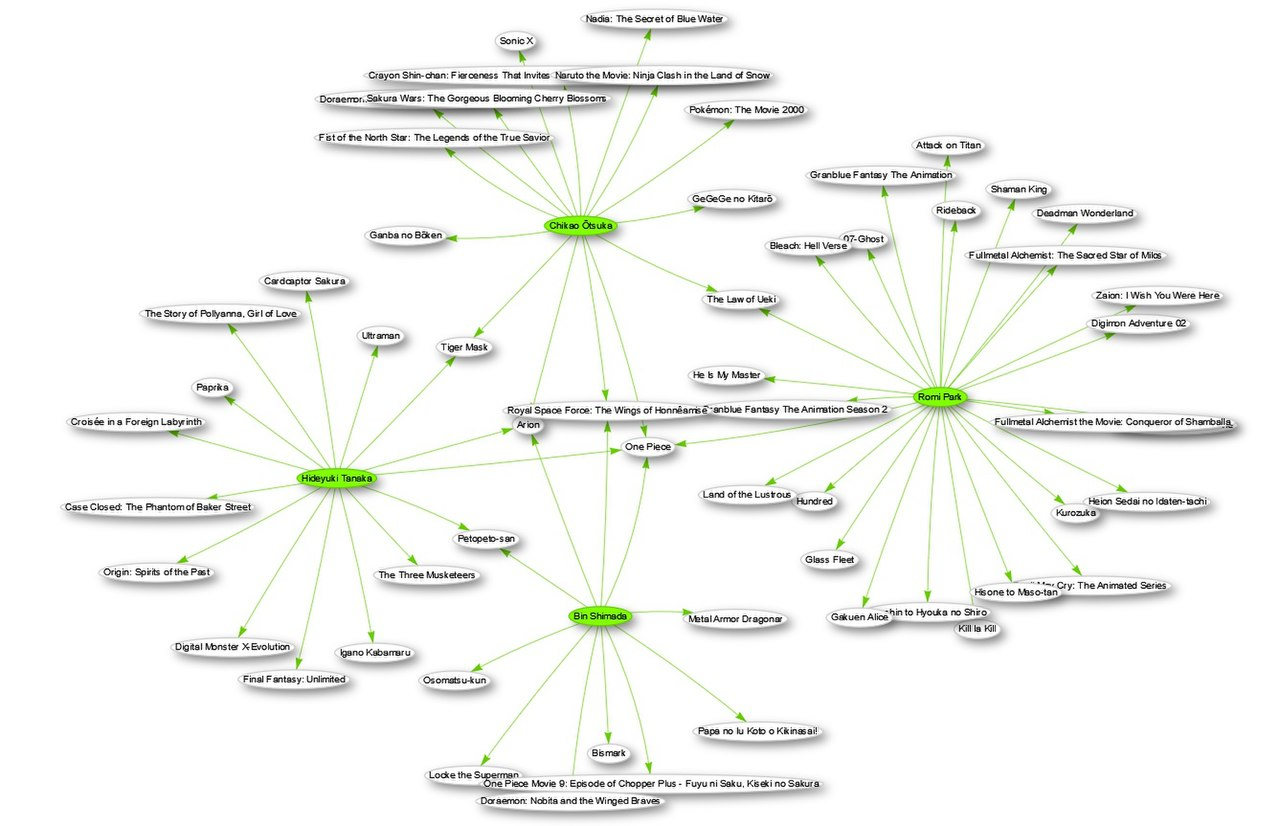
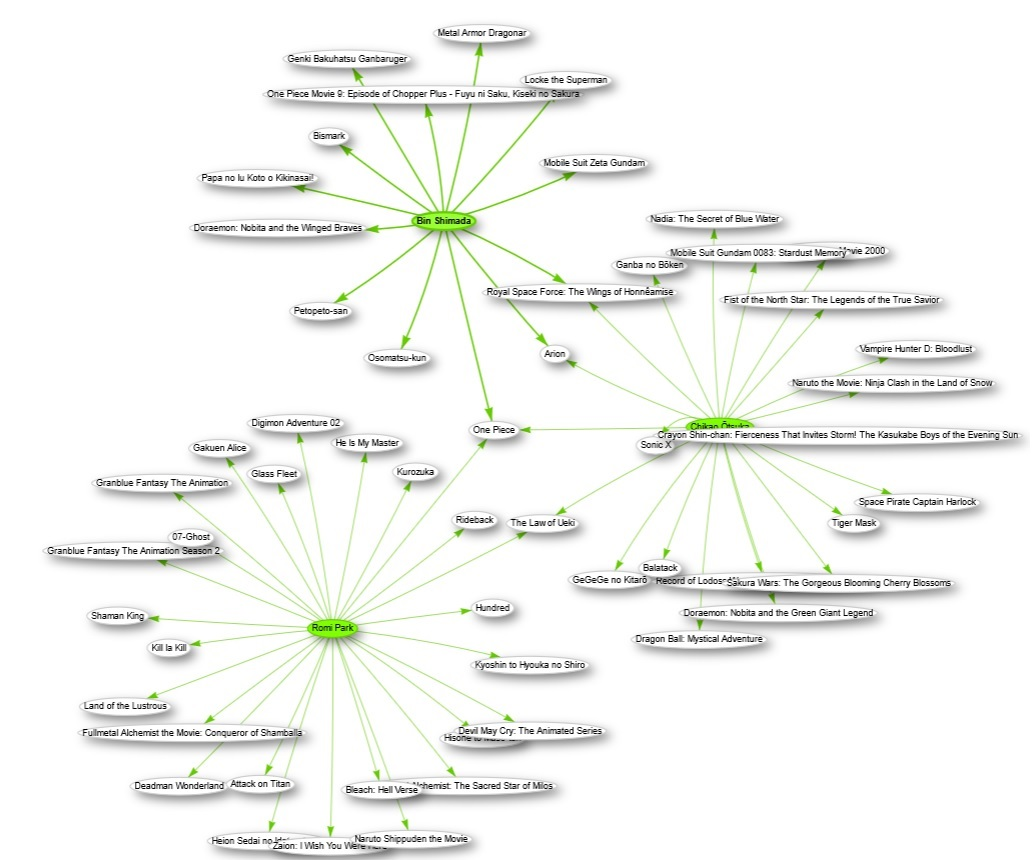
Remove SAMPLE commands that gave wrong language labels, reduce graph size in EN, fix sunburst actors diagram in RU

Changed region(s): [[0.0309, 0.0, 0.9903, 1.0]]

diff --git a/ru/chapter/anime.tex b/ru/chapter/anime.tex
@@ -116,25 +116,23 @@ WHERE
 
 Построим упорядоченный список сэйю по числу озвученных ими аниме (листинг~\protect\ref{lst:seiyu_titles_sorted}).
 
-\footnotetext{Получено \num{148} результатов в 2017 году и \num{2684} результата в 2021 году. Ссылка на SPARQL-запрос: \href{https://w.wiki/49zz}{https://w.wiki/49zz}}
+\footnotetext{Получено \num{148} результатов в 2017 году и \num{2910} результатов в 2021 году. Ссылка на SPARQL-запрос: \href{https://w.wiki/4Xph}{https://w.wiki/4Xph}}
 \begin{lstlisting}[ language=SPARQL, 
-                    caption={\href{https://w.wiki/49zz}{Упорядоченный список сэйю по числу озвученных ими аниме}\protect\footnotemark},
+                    caption={\href{https://w.wiki/4Xph}{Упорядоченный список сэйю по числу озвученных ими аниме}\protect\footnotemark},
                     label=lst:seiyu_titles_sorted,
                     texcl 
                     ]
-# Ordered list of seiyu according to the number of anime
+# Ordered list of actors (seiyu) according to the number of anime
 # where they took part in
-SELECT ?seiyu (SAMPLE(?label) AS ?seiyuLabel) (COUNT(?anime) AS ?count)
+SELECT ?seiyu ?seiyuLabel (COUNT(?anime) AS ?count)
 WHERE
 {
-  ?anime wdt:P31/wdt:P279* wd:Q1107;	 # instance of anime/subclass
-         wdt:P725 ?seiyu. 	             # instance of seiyu
-  ?seiyu rdfs:label ?label	             # subclass of label
-    SERVICE wikibase:label{bd:serviceParam
-					     wikibase:language "ru,en,ja"}
+  ?anime wdt:P31/wdt:P279* wd:Q1107;  # instance of anime/subclass
+         wdt:P725 ?seiyu.  # instance of seiyu (voice actor)
+  SERVICE wikibase:label { bd:serviceParam wikibase:language "ru,en,ja" }
 }
-GROUP BY ?seiyu		    # group by seiyu 
-ORDER BY DESC(?count)	# order by count of voiced anime
+GROUP BY ?seiyu ?seiyuLabel  # group by seiyu 
+ORDER BY DESC(?count)  # order by count of voiced anime
 \end{lstlisting}%
 
 \subsection{График по числу сэйю, озвучивших одно и более аниме}
@@ -250,24 +248,22 @@ WHERE
 
 Вспомним запрос~\protect\ref{lst:seiyu_titles_sorted}, в котором говорилось о \num{2684} сэйю на Викиданных. Дело в том, что поиск производился только по актёрам озвучивания, связанным с аниме, поэтому результат оказался таким скромным. Если запросить информацию о всех актёрах озвучивания (то есть убрать ограничение на категорию аниме), то количество результатов может увеличиться в \num{5} раз (листинг~\protect\ref{lst:voice_actors_list}). Такой прирост говорит о том, что сэйю могут озвучивать не только аниме, но и другие проекты, и это нужно учитывать при формировании запросов.
 
-\footnotetext{Получено \num{3965} результатов в 2017 году и \num{14252} результата в 2021 году. Ссылка на SPARQL-запрос: \href{https://w.wiki/4KQY}{https://w.wiki/4KQY}}
+\footnotetext{Получено \num{3965} результатов в 2017 году и \num{14744} результата в 2021 году. Ссылка на SPARQL-запрос: \href{https://w.wiki/4XpY}{https://w.wiki/4XpY}}
 \begin{lstlisting}[ language=SPARQL, 
-                    caption={\href{https://w.wiki/4KQY}{Получение списка актёров озвучки и числа озвученных ими проектов}\protect\footnotemark},
+                    caption={\href{https://w.wiki/4XpY}{Получение списка актёров озвучки и числа озвученных ими проектов}\protect\footnotemark},
                     label=lst:voice_actors_list,
                     texcl 
                     ]
 # Ordered list of actors according to the quantity of projects
 # voiced by them
-SELECT ?actor (SAMPLE(?label) AS ?actorLabel) (COUNT(?media) AS ?count)
+SELECT ?actor ?actorLabel (COUNT(?anime) AS ?count)
 WHERE
 {
-  ?media wdt:P725 ?actor.	 # instance of voice actor
-  ?actor rdfs:label ?label	 # subclass of label
-  SERVICE wikibase:label { bd:serviceParam
-                           wikibase:language "ru,en,ja" }
+  ?anime wdt:P725 ?actor.	 # instance of voice actor
+  SERVICE wikibase:label { bd:serviceParam wikibase:language "ru,en,ja" }
 }
-GROUP BY ?actor		    # group by actor
-ORDER BY DESC(?count)	# order by number of voiced projects 
+GROUP BY ?actor  ?actorLabel
+ORDER BY DESC(?count)  # order by number of voiced projects
 \end{lstlisting}%
 
 \begin{figure*}[h]
@@ -413,8 +409,6 @@ WHERE
 \end{figure*} 
  	
 Отметим следующий забавный факт: в Викиданных нашлись случаи, когда сэйю родился позже, чем вышло аниме с его участием. Вероятно, это связано с отсутствием информации в Викиданных о втором сезоне/перезапуске аниме. Например, на 2021 год такая ситуация наблюдается для аниме \wdqName{Sazae-san}{11304591} и сэйю \wdqName{Нобунага Симадзаки}{5968283}: сэйю родился в 1988 году, а дата выхода аниме с его участием~--- 1969 год.
-
-\newpage
 
 \section{Упражнения}
 

diff --git a/en/chapters/anime.tex b/en/chapters/anime.tex
@@ -114,7 +114,6 @@ Sunburst diagram of anime genres created with Rawgraphs (\href{https://app.rawgr
 
 Anime that have the most complete information on Wikidata are \wdqName{Gurren Lagann}{4277}, \wdqName{Space Battleship Yamato}{4292}, \wdqName{Project A-ko}{4316}. There are also some anime with many missing properties like \wdqName{Doraemon}{711311}, \wdqName{The Animal Conference on the Environment}{97195557} and \wdqName{Assassins Pride}{96737300}.
 
-% add Prowd link
 According to ProWD service \autocite{anime_prowd}, among all the anime titles on Wikidata, \wdqName{Fullmetal Alchemist: The Sacred Star of Milos}{1004318}\footnote{Fullmetal Alchemist: The Sacred Star of Milos is an anime movie which continues the Fullmetal Alchemist anime series. Its main characters are the alchemist brothers who use their magic to fight the criminals and forces of evil.} has the greatest number of properties (\num{24}).
 
 \section{List of seiyu ordered by number of their roles in anime}
@@ -125,25 +124,23 @@ Let's create a sorted list of seiyu according to the number of anime voiced by t
 
 \begin{lstlisting}[ language=SPARQL, breaklines=true, numbers=none,
                     caption={Sorted list of seiyu according to the number of anime voiced by them.
-                        \num{148} results in 2017, \num{2684} results in 2021.
-                        SPARQL query: \href{https://w.wiki/4AC5}{https://w.wiki/4AC5}
+                        \num{148} results in 2017, \num{2910} results in 2021.
+                        SPARQL query: \href{https://w.wiki/4Xos}{https://w.wiki/4Xos}
                         },
                     label=lst:seiyu_titles_sorted,
                     texcl 
                     ]
 # Ordered list of actors (seiyu) according to the number
 # of anime where they took part in.
-SELECT ?seiyu (SAMPLE(?label) AS ?seiyuLabel)
-(COUNT(?anime) AS ?count) WHERE {
-  # instance of anime/subclass
-  ?anime wdt:P31/wdt:P279* wd:Q1107;
-         wdt:P725 ?seiyu.  # instance of seiyu (voice actor)
-  ?seiyu rdfs:label ?label	# subclass of label
-  SERVICE wikibase:label{bd:serviceParam
-					   wikibase:language "en,ja"}
+SELECT ?seiyu ?seiyuLabel (COUNT(?anime) AS ?count)
+WHERE
+{
+  ?anime wdt:P31/wdt:P279* wd:Q1107;  # anime/subclass
+         wdt:P725 ?seiyu.  # instance of seiyu
+  SERVICE wikibase:label { bd:serviceParam wikibase:language "en,ja" }
 }
-GROUP BY ?seiyu		 # group by seiyu 
-ORDER BY DESC(?count)	# order by number of voiced anime
+GROUP BY ?seiyu  ?seiyuLabel  # group by seiyu 
+ORDER BY DESC(?count)  # order by count of voiced anime
 \end{lstlisting}%
 
 \section{Chart of number of seiyu who worked on one or more anime}
@@ -201,7 +198,7 @@ Fig.~\ref{fig:Seiyu_graph_en} shows a part of the graph for several famous seiyu
 \captionsetup[lstlisting]{format=llapwide18}%
 %
 \begin{lstlisting}[ language=SPARQL, breaklines=true,%
-                    caption={Display the graph that connects seiyu and the anime they took part~in. 826 results in 2017, 496 results in 2021. SPARQL query: \href{https://w.wiki/4ACB}{https://w.wiki/4ACB}},
+                    caption={Display the graph that connects seiyu and the anime they took part in. 826 results in 2017, 496 results in 2021. SPARQL query: \href{https://w.wiki/4Xqk}{https://w.wiki/4Xqk}},
                     label=lst:seiyu_graph,
                     texcl
                   ]
@@ -211,9 +208,7 @@ SELECT DISTINCT ?item ?itemLabel ?rgb ?link
 WHERE
 { # voice actors (seiyu) with more than one anime
   VALUES ?toggle { true false }
-  VALUES ?seiyu { wd:Q6381410 wd:Q1347031 wd:Q1207010 
-           wd:Q233902  wd:Q1323728 wd:Q2440809 
-           wd:Q355173  wd:Q957795  wd:Q50033}
+  VALUES ?seiyu { wd:Q1207010 wd:Q233902 wd:Q1323728 }
   ?anime  wdt:P31/wdt:P279* wd:Q1107; # instance of anime or its subclass
           wdt:P725 ?seiyu;            # seiyu who voiced this anime 
   SERVICE wikibase:label {bd:serviceParam wikibase:language "en,ja"}
@@ -225,9 +220,9 @@ WHERE
 \end{lstlisting}%
 \end{widepar}%
 
-The \emph{?seiyu} variable (lines 7--9) contains an array of Wikidata objects which correspond to several seiyu like \wdqName{Kazue Komiya}{6381410} and others. We picked only nine seiyu for illustration purposes as the graph for more seiyu would be uncomfortable for reading.
+The \emph{?seiyu} variable (line 7) contains an array of Wikidata objects which correspond to several seiyu like \wdqName{Bin Shimada}{1323728} and others. We picked only three seiyu for illustration purposes as the graph for more seiyu would be uncomfortable for reading.
 
-The \emph{BIND(IF(?toggle, ?anime, ?seiyu))} construction in the line \num{13} allows to determine the graph node type: if \emph{?toggle} is \emph{true}, then the node corresponds to anime, seiyu otherwise. The text label and color of node are determined in the same way in the lines \num{14} and \num{15}. The line \num{16} allows to create the edges between the seiyu and anime nodes.
+The \emph{BIND(IF(?toggle, ?anime, ?seiyu))} construction in the line \num{11} allows to determine the graph node type: if \emph{?toggle} is \emph{true}, then the node corresponds to anime, seiyu otherwise. The text label and color of node are determined in the same way in the lines \num{12} and \num{13}. The line \num{14} allows to create the edges between the seiyu and anime nodes.
 
 \begin{figure*}
 
